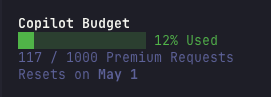
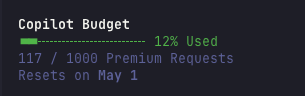
chore: update progress bar UI and preview image
- Change progress bar characters from █/░ to ▬/╌ for cleaner display
- Update preview.png to reflect new UI
- Bump version to 1.0.1

Changed region(s): [[0.059, 0.1562, 0.8561, 0.6875], [0.059, 0.6875, 0.4723, 0.8438], [0.4723, 0.6875, 0.5314, 0.8125]]

diff --git a/src/index.tsx b/src/index.tsx
@@ -213,7 +213,7 @@ function ProgressBar(props: { percent: number }) {
   const empty = BAR_WIDTH - filled
   const color = clampedPercent >= 90 ? BAR_DANGER_COLOR : BAR_FILL_COLOR
   return (
-    <text fg={color}>{`${"█".repeat(filled)}${"░".repeat(empty)} ${clampedPercent}% Used`}</text>
+    <text fg={color}>{`${"▬".repeat(filled)}${"╌".repeat(empty)} ${clampedPercent}% Used`}</text>
   )
 }
 
